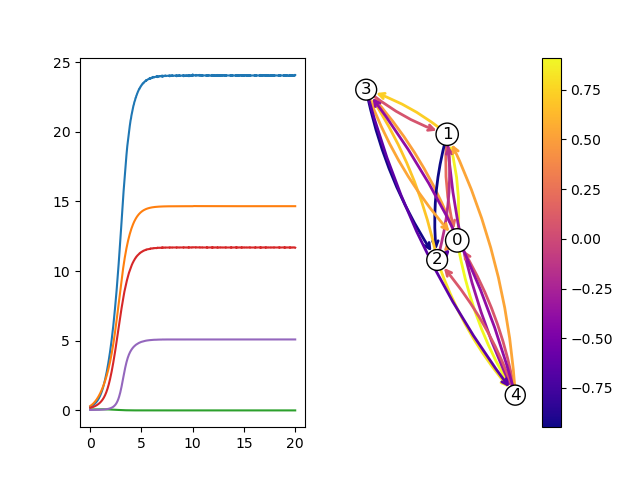
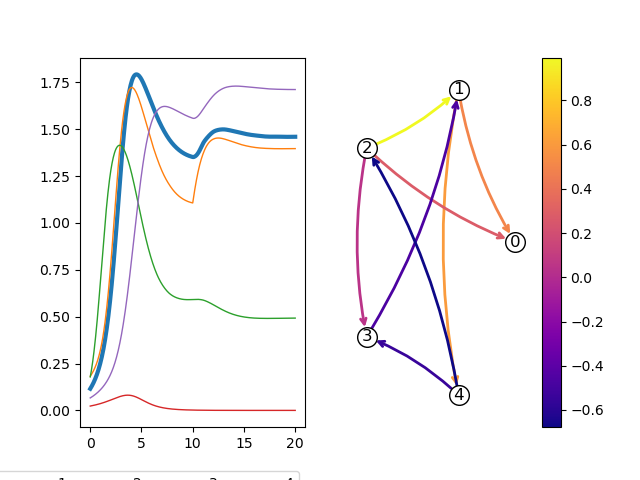
Updated more explanatory shiny

diff --git a/ds_shiny/app.py b/ds_shiny/app.py
@@ -1,4 +1,4 @@
-##shiny run --reload --launch-browser Documents/GitHub/dynamics_random_complex_systems/ds_shiny/app.py
+##shiny run --reload --launch-browser GitHub/dynamics_random_complex_systems/ds_shiny/app.py
 
 ########################################################
 
@@ -29,7 +29,7 @@ app_ui = ui.page_sidebar(
     
     ui.div(
         ui.input_action_button(
-            "run", "Run this model", class_="btn-primary"
+            "run", "Run the dynamical systems model", class_="btn-primary"
         ),
         
     ),
@@ -37,7 +37,7 @@ app_ui = ui.page_sidebar(
     ui.div(
         
         ui.input_action_button(
-            "reset_model", "Reset the model", class_="btn-primary"
+            "reset_model", "Generate a new model", class_="btn-primary"
         ),
         
     ),
@@ -46,15 +46,15 @@ app_ui = ui.page_sidebar(
     
     ui.input_slider("prop_interactions", "Prop. of possible interactions", 0, 1, 0.5),
     
-    ui.input_radio_buttons("parameter_to_update", "Parameter to update", choices=["None", "Value", "Max level", "Interaction"]),
+    ui.input_radio_buttons("parameter_to_update", "How to intervene", choices=["None", "Value", "Max level", "Interaction"]),
     
-    ui.input_slider("sel_node", "Selected node", 0, 15, 0, step = 1),
+    ui.input_slider("sel_node", "Selected node to intervene on", 0, 15, 0, step = 1),
     
     ui.input_slider("sel_other_node", "Interaction from...", 0, 15, 1, step = 1),
     
     ui.input_slider("no_factors", "No. factors", 1, 15, 5, step = 1),
     
-    ui.input_slider("kick_size", "Kick size", -2, 2, 0.1, step = 0.1),
+    ui.input_slider("kick_size", "Intervention size", -2, 2, 0.1, step = 0.1),
     
     ui.input_slider("max_time", "Maximum time", 0, 50, 20, step = 1),
     
@@ -290,7 +290,11 @@ def server(input, output, session):
 
                 ax[0].plot(full_t, full_z.T[:, sel_factor], linewidth=set_line_width, label=f"{sel_factor}")
                 
-        ax[0].legend(bbox_to_anchor=(1, -0.1), ncol=no_factors)
+        ax[0].legend(bbox_to_anchor=(1, -0.3), ncol=no_factors)
+        
+        ax[0].set_xlabel("Time")
+        
+        ax[0].set_ylabel("Node value")
 
         #############################################################
 
@@ -348,6 +352,8 @@ def server(input, output, session):
         #plt.show()
 
         #plt.close()
+        
+        fig.suptitle("Try to intervene to increase the value of node 0", fontsize=16)
         
         return fig
      

diff --git a/intervention_effects.py b/intervention_effects.py
@@ -172,9 +172,9 @@ max_t=20
 
 prop_interactions=0.8
 
-all_kick_sizes=np.random.random(no_runs)#np.ones(no_runs)
+all_kick_sizes=np.random.random(no_runs)*3#np.ones(no_runs)
 
-kick_type=1 ##1=value, 2=max, 3=interaction
+kick_type=3 ##1=value, 2=max, 3=interaction
 
 all_intervention_effects=[]
 
@@ -191,7 +191,7 @@ for sel_run in np.arange(no_runs):
     max_resources=np.random.random(no_factors)*2
 
     initial_interactions=np.random.random([no_factors, no_factors])*2-1
-            
+    
     ##create an array that tells us which interactions to include
 
     interactions_include=(np.random.choice([0, 1], no_factors*no_factors, p=[1-prop_interactions, prop_interactions])).reshape(no_factors, no_factors)
@@ -204,8 +204,38 @@ for sel_run in np.arange(no_runs):
         
     ##also, set the interaction between 1 and 0 to be 0.5 (always positive, and somewhere in the middle)
 
-    interactions[1, 0]=0.5
+#    interactions[1, 0]=0.5
 
+    ########################
+    
+    ##or run this for a specific system
+    
+    growth_rate=np.ones(no_factors)*2
+
+    growth_to_max_rate=np.zeros(no_factors)
+
+    max_resources=np.zeros(no_factors)
+
+    interactions=np.zeros([no_factors, no_factors])
+    
+    growth_to_max_rate[3]=1
+    
+    growth_to_max_rate[4]=1
+    
+    max_resources[3]=1
+    
+    max_resources[4]=1
+    
+    interactions[2, 0]=2
+    
+    interactions[4, 2]=2
+   
+    interactions[3, 0]=0.5
+    
+    interactions[3, 1]=1
+    
+    interactions[1, 0]=-1
+            
     intervention_effect=Calc_Intervention_Effect(no_factors, no_t, max_t, prop_interactions, kick_size, kick_type)
 
 #    print("intervention_effect = ", intervention_effect)
